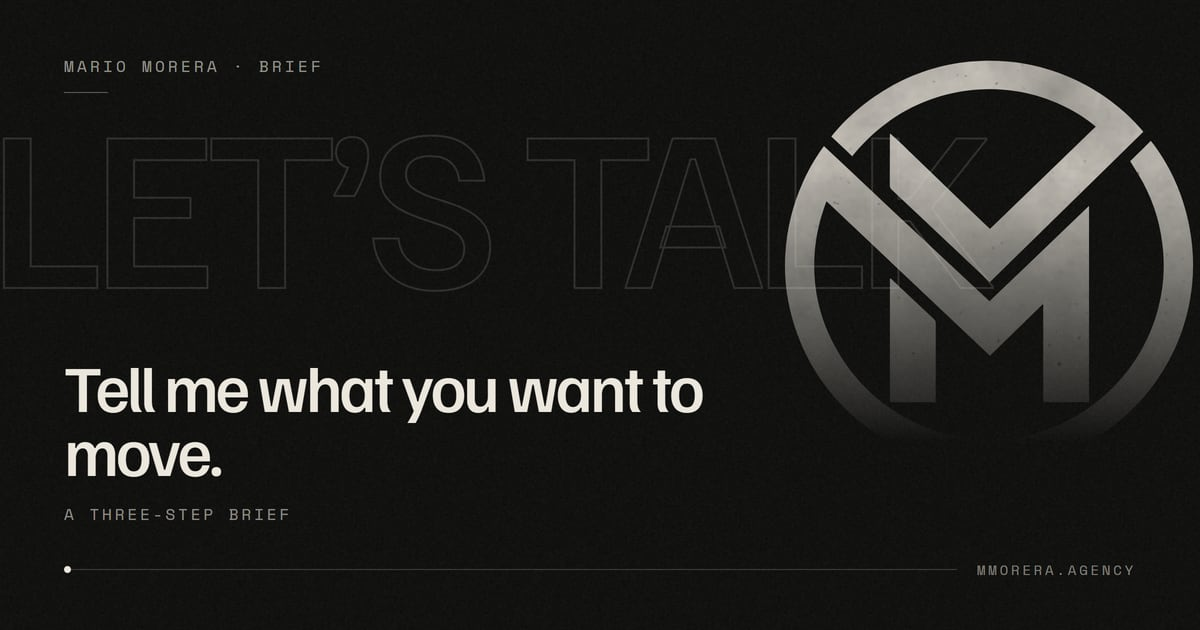
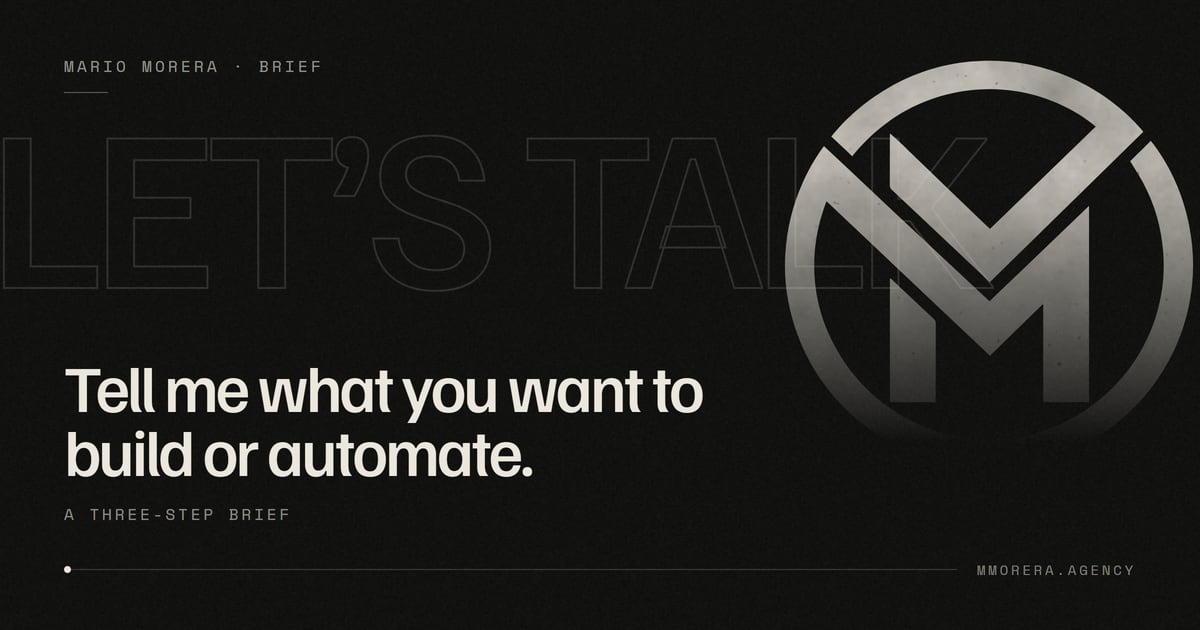
feat(triada): T25, brief de voz y datos en tuteo; Fenix rotula sus herramientas internas
- solutionsData y paginas.ts sin voseo; portada de /aplicar regenerada.
- projectCases: el registro de claims y la base de videos de Fenix se rotulan
  como herramientas de trabajo (T03).
- Brief para Codex en docs/triada/briefs/T25-texto.md; T25 sumada al arranque.

Changed region(s): [[0.0617, 0.6937, 0.4625, 0.754]]

diff --git a/web/src/data/solutionsData.ts b/web/src/data/solutionsData.ts
@@ -126,7 +126,7 @@ export const DECISION_TOPICS: DecisionTopic[] = [
   {
     id: "crm-choice",
     category: t("Sistemas Comerciales", "Commercial Systems"),
-    question: t("¿Necesitás un CRM gigante como HubSpot/GoHighLevel o una herramienta a medida?", "Do you need a heavy CRM like HubSpot/GoHighLevel or a custom-built tool?"),
+    question: t("¿Necesitas un CRM gigante como HubSpot/GoHighLevel o una herramienta a medida?", "Do you need a heavy CRM like HubSpot/GoHighLevel or a custom-built tool?"),
     summary: t(
       "Muchos negocios pagan cientos de dólares al mes en herramientas que su equipo termina abandonando por complejas. La elección correcta depende de tu volumen y cómo vendés.",
       "Many businesses pay hundreds monthly for complex software their teams end up abandoning. The right choice depends on your volume and sales process."
@@ -155,10 +155,10 @@ export const DECISION_TOPICS: DecisionTopic[] = [
           t("Telefonía integrada (VoIP), SMS y email marketing masivo", "Integrated VoIP calling, SMS, and massive email marketing"),
           t("Múltiples pipelines de venta y comisiones por vendedor", "Multiple sales pipelines and rep commission tracking"),
           t("Ecosistema maduro con cientos de integraciones nativas", "Mature ecosystem with hundreds of native integrations"),
-          t("Ideal cuando tenés personal dedicado a operar el CRM", "Ideal when you have dedicated staff to operate the CRM"),
+          t("Ideal cuando tienes personal dedicado a operar el CRM", "Ideal when you have dedicated staff to operate the CRM"),
         ],
         whenToChoose: t(
-          "Cuando tenés un equipo comercial de 4+ personas haciendo llamadas y seguimiento constante.",
+          "Cuando tienes un equipo comercial de 4+ personas haciendo llamadas y seguimiento constante.",
           "When you have a commercial team of 4+ reps actively making outbound calls and follow-ups."
         ),
         recommendedFor: t("Agencias, empresas de seguros, inmobiliarias masivas y B2B de alto volumen.", "Agencies, insurance firms, large real estate teams, and high-volume B2B."),
@@ -227,7 +227,7 @@ export const DECISION_TOPICS: DecisionTopic[] = [
           t("Automatizaciones de seguimiento implacables (evita que se enfríen prospectos)", "Relentless automated nurture flows to keep leads hot"),
           t("Ideal para delegar sub-cuentas a sucursales o clientes con marca blanca", "Sub-account architecture perfect for branches and clients"),
         ],
-        whenToChoose: t("Si vendés servicios, citas, consultas, o si querés sustituir 6 suscripciones distintas (ClickFunnels + Calendly + Mailchimp + Twilio) por una sola.", "If you sell appointments, high-ticket services, or want to replace 6 subscriptions into one consolidated platform."),
+        whenToChoose: t("Si vendes servicios, citas o consultas, o si quieres sustituir 6 suscripciones distintas (ClickFunnels + Calendly + Mailchimp + Twilio) por una sola.", "If you sell appointments, high-ticket services, or want to replace 6 subscriptions into one consolidated platform."),
         recommendedFor: t("Agencias, clínicas estéticas, academias, firmas legales y servicios locales.", "Agencies, aesthetic clinics, academies, legal firms, and local services."),
         badge: t("Recomendado Todo-en-Uno", "Top All-In-One"),
       },
@@ -240,7 +240,7 @@ export const DECISION_TOPICS: DecisionTopic[] = [
           t("A Medida (Supabase + n8n): Propiedad 100% de tus datos con cero costos recurrentes", "Custom (Supabase + n8n): 100% data ownership with zero recurring SaaS fees"),
           t("Integración profunda con stacks de código Next.js y APIs REST", "Deep integration with modern Next.js code stacks and REST APIs"),
         ],
-        whenToChoose: t("HubSpot si tenés un equipo corporativo con presupuesto alto. Pipedrive o A Medida si buscás foco puro en cerrar tratos sin complejidad.", "HubSpot if you have a well-funded enterprise sales team. Pipedrive or Custom if you want zero bloat and high closing velocity."),
+        whenToChoose: t("HubSpot si tienes un equipo corporativo con presupuesto alto. Pipedrive o A Medida si buscas foco puro en cerrar tratos sin complejidad.", "HubSpot if you have a well-funded enterprise sales team. Pipedrive or Custom if you want zero bloat and high closing velocity."),
         recommendedFor: t("Startups B2B, empresas de software, distribuidores mayoristas y operaciones ágiles.", "B2B SaaS, tech startups, wholesale distributors, and lean teams."),
         badge: t("Corporativo & Especializado", "Corporate & Specialized"),
       },

diff --git a/web/src/data/projectCases.ts b/web/src/data/projectCases.ts
@@ -30,10 +30,10 @@ export const PROJECT_CASES: ProjectCase[] = [
       t("Pacientes hispanos: sitio bilingüe y precios claros.", "Hispanic patients: a bilingual site and clear prices."),
     ],
     decisions: [
-      t("Un registro de 109 afirmaciones con redacción permitida y prohibida.", "A registry of 109 claims with permitted and prohibited wording."),
+      t("Un registro interno de 109 afirmaciones con redacción permitida y prohibida (herramienta de trabajo; no se ve en el sitio).", "An internal registry of 109 claims with permitted and prohibited wording (a working tool; not shown on the site)."),
       t("Formulario de 7 campos sin texto libre, con llave fail-closed hacia GoHighLevel.", "A 7-field form with no free text and a fail-closed switch into GoHighLevel."),
       t("Reserva en 3 pasos contra la agenda real del CRM.", "A 3-step booking against the CRM's real calendar."),
-      t("Una base de 1.096 videos médicos públicos para escribir guiones con búsqueda por palabras clave.", "A base of 1,096 public medical videos to write scripts with keyword search."),
+      t("Una base interna de 1.096 videos médicos públicos para escribir guiones con búsqueda por palabras clave (herramienta de trabajo; no se ve en el sitio).", "An internal base of 1,096 public medical videos for writing scripts with keyword search (a working tool; not shown on the site)."),
     ],
     result: t(
       "Un sitio de 40 páginas en dos idiomas, con reserva conectada al CRM y una fábrica de contenido que no promete de más.",

diff --git a/web/src/data/seo/paginas.ts b/web/src/data/seo/paginas.ts
@@ -76,9 +76,9 @@ export const PAGINAS_SEO: Record<PaginaSeo, PaginaSeoData> = {
   },
   hablemos: {
     path: "/aplicar",
-    title: { es: "Contame tu proyecto", en: "Tell me about your project" },
+    title: { es: "Cuéntame tu proyecto", en: "Tell me about your project" },
     description: {
-      es: "Tres pasos para contarme qué querés construir o automatizar. Con ese contexto te respondo con el próximo paso útil para tu proyecto.",
+      es: "Tres pasos para contarme qué quieres construir o automatizar. Con ese contexto te respondo con el próximo paso útil para tu proyecto.",
       en: "Three steps to tell me what you want to build or automate. With that context, I reply with the most useful next step for your project.",
     },
     portada: "hablemos",
@@ -125,7 +125,7 @@ export const PORTADAS_OG: Record<PaginaSeoData["portada"], PortadaOg> = {
   hablemos: {
     eco: { es: "Hablemos", en: "Let’s talk" },
     rotulo: { es: "Mario Morera · Brief", en: "Mario Morera · Brief" },
-    titular: { es: "Contame qué querés mover.", en: "Tell me what you want to move." },
+    titular: { es: "Cuéntame qué quieres construir o automatizar.", en: "Tell me what you want to build or automate." },
     servicios: { es: "Brief en tres pasos", en: "A three-step brief" },
   },
 };

diff --git a/web/docs/triada/briefs/T25-texto.md b/web/docs/triada/briefs/T25-texto.md
@@ -1,0 +1,89 @@
+# T25 · Pasada de texto: voseo, calcos y cifras
+
+**Dueño:** Claude escribe este brief y los datos → **Codex** aplica en los componentes.
+**Voz:** español neutro con tuteo (sin voseo) e inglés claro. Codex copia los textos tal cual, sin reescribirlos.
+
+## Ya hecho por Claude (en `src/data/**`)
+
+| Archivo | Cambio |
+|---|---|
+| `data/solutionsData.ts` | 5 frases con voseo en la comparación de CRM pasan a tuteo |
+| `data/seo/paginas.ts` | `/aplicar`: título «Cuéntame tu proyecto», descripción con «quieres» y portada «Cuéntame qué quieres construir o automatizar.» / «Tell me what you want to build or automate.» |
+| `data/projectCases.ts` | Fenix: el registro de 109 afirmaciones y la base de 1.096 videos se rotulan «herramienta de trabajo; no se ve en el sitio». «40 páginas» **no se cambió**: el film de Fenix valida esa cifra contra `FENIX_FACTS` (dossier). El sitemap verificado en T03 da 22 páginas por idioma; hay que conciliar el dossier, el registro de hechos y el film juntos |
+
+`data/techRadarData.ts` tiene voseo, pero solo lo usa `/radar`, que es una página de desarrollo (`page.dev.tsx`). Queda fuera.
+
+## 1. Voseo en componentes (Codex)
+
+| Archivo:línea | Antes | Después (ES) |
+|---|---|---|
+| `app/aplicar/page.tsx:23` | Contame qué querés mover. | Cuéntame qué quieres construir o automatizar. |
+| `components/premium/CaseStudy.tsx:97` | Verificalo vos mismo | Compruébalo tú mismo |
+| `components/premium/CaseStudy.tsx:254` | ¿Querés algo así para tu negocio? | ¿Quieres algo así para tu negocio? |
+| `components/premium/CaseStudy.tsx:259` | Contame tu proyecto | Cuéntame tu proyecto |
+| `components/premium/WorkExperience.tsx:78` | ¿Qué querés hacer posible? | ¿Qué quieres hacer posible? |
+| `components/premium/WorkReel.tsx:342` | Deslizá → | Desliza → |
+| `components/premium/WorkReel.tsx:367` | Scrolleá ↓ | Desplázate ↓ |
+| `components/premium/UnderTheHood.tsx:19` | …elegí un recorrido o abrí un componente. | …elige un recorrido o abre un componente. |
+| `components/premium/ArchitectureExplorerMount.tsx:48` | Abrí un componente para ver… | Abre un componente para ver… |
+| `components/films/UseCaseFilmRoom.tsx:201` | Tocá un nodo para inspeccionarlo | Toca un nodo para inspeccionarlo |
+| `components/premium/estudio/CapabilitiesOrbit.tsx:41` | …Abrí una para ver qué resuelve… | …Abre una para ver qué resuelve… |
+| `components/premium/estudio/CapabilitiesOrbit.tsx:44` | Tocá un nodo para abrirlo · Esc para cerrar | Toca un nodo para abrirlo · Esc para cerrar |
+| `components/premium/estudio/CapabilityFilmPanel.tsx:22` | Abrí otra familia en la órbita… | Abre otra familia en la órbita… |
+| `components/premium/estudio/InteractiveDesignTokenStudio.tsx:123` | Sintetizá la identidad visual… | Sintetiza la identidad visual… |
+| `components/premium/estudio/InteractiveDesignTokenStudio.tsx:128` | Explorá cómo… Exportá la configuración… | Explora cómo… Exporta la configuración… |
+| `components/premium/estudio/InteractiveDesignTokenStudio.tsx:446` | ¿Querés esta estética «…» en tu propio sistema? | ¿Quieres esta estética «…» en tu propio sistema? |
+| `components/premium/home/OrchestrationWheelSection.tsx:136` y `:194` | Tocá… | Toca… |
+| `components/premium/systems/TechRadarBackstageStudio.tsx:906` | O ingresá un tema libre… | O escribe un tema libre… |
+| `components/portfolio-isolated/AplicarOS.tsx:118-119` | Ingresá tu nombre. / Ingresá un email válido. | Escribe tu nombre. / Escribe un email válido. |
+| `lib/leadValidation.ts:45-50` | Ingresá… / Contame un poco más: usá… / Elegí… | Escribe un nombre de al menos 2 caracteres. / Escribe un email válido. / Cuéntame un poco más: usa al menos 20 caracteres. / Elige el momento actual del proyecto. / Elige cómo está compuesto el equipo. / Elige un momento estimado de inicio. |
+| `actions/submit-lead.ts:111` | …Probá nuevamente o escribime por email. | …Prueba de nuevo o escríbeme por email. |
+| `components/films/scenes/brand/layout/mediaSamples.ts:56` | Elegí el día / Elegí la hora | Elige el día / Elige la hora |
+
+**Listo cuando:** esta búsqueda, fuera de tests, `remotion/`, `social/`, `translations.ts`, `HeroPortfolio` y páginas `*.dev.tsx`, no encuentra nada:
+
+```
+querés|tenés|podés|contame|tocá|abrí|elegí|ingresá|explorá|exportá|sintetizá|scrolleá|deslizá|probá|escribime|vos mismo
+```
+
+## 2. Inglés: calcos y fugas de español (de T12)
+
+| Dónde | Antes | Después (EN) |
+|---|---|---|
+| `app/aplicar/page.tsx` (h1 EN) | Tell me what you want to move. | Tell me what you want to build or automate. |
+| `app/aplicar/page.tsx` (bajada EN) | …and reply with judgment. | …and reply with a clear next step. |
+| `app/layout.tsx` (vínculo para saltar al contenido) | «Saltar al contenido principal» también en `/en` | En `/en`: «Skip to main content». El layout es uno solo: usa el mismo truco del `themeInitScript` o un componente cliente con `usePathname` |
+| `components/premium/SystemsExperience.tsx:57` | `… · CRM / IA / Automatización` fuera del ternario | ES «Sistemas · CRM / IA / Automatización», EN «Systems · CRM / AI / Automation» |
+| `components/premium/estudio/InteractiveDesignTokenStudio.tsx` | Corner Curvature · Inquire on WhatsApp | Corner Radius · Chat on WhatsApp |
+| `components/premium/systems/TechRadarBackstageStudio.tsx` | Mario Morera Thesis · Send to my WhatsApp · Quote this architecture | Mario's take · Send via WhatsApp · Get an estimate for this setup |
+| `components/premium/HomeExperience.tsx` (`copy.en`) | Shall we work together? · Websites & landings · I'll share my CV and availability | Let's work together. · Websites & landing pages · I'll share my resume and availability |
+
+## 3. El `stack` de los casos en dos idiomas
+
+Hoy `stack` es `string[]` y en `/en` se ven 4 etiquetas en español. **Propuesta:** el tipo pasa a `(string | LocalizedText)[]`, y los componentes que lo pintan muestran `typeof item === "string" ? item : item[language]`. Codex cambia el tipo en `src/types/**` y en los componentes que lo pintan; Claude cambia estos valores en `projectCases.ts` cuando el tipo esté listo:
+
+| Caso | ES | EN |
+|---|---|---|
+| mr-studio-tattoo | Reserva por pasos · Consentimiento digital | Multi-step booking · Digital consent |
+| truckers-choice | Cotización por pasos | Multi-step quoting |
+| america-tramites | Validación en cliente | Client-side validation |
+| doge-sm | Catálogo de tienda | Store catalog |
+| new-brothers-barberia | IA | AI |
+
+## 4. Cifras que no ayudan a entender
+
+| Dónde | Hoy | Qué hacer |
+|---|---|---|
+| `SystemsExperience.tsx`, telemetría | «24/7», «<5 min» y los demás números, que cuentan desde «00» con `TickerNumber` | Quitar los números animados. Quedan los 4 rótulos como texto: «Estados visibles del flujo», «Diseñado para operar sin pausa», «Objetivo de primera respuesta» e «Historia única del prospecto». Sin contador |
+| `systems/OmnichannelInboxSimulator.tsx` | Montos («$2800 USD»), «Intención 96 %» y «Oportunidad … estimados», aunque están rotulados como ejemplo | Dejar de mostrar el monto y la intención. El rótulo «Datos de ejemplo» se queda. Los datos en `omnichannelInboxData.ts` se borran en una pasada posterior de Claude |
+
+## Archivos permitidos (Codex)
+
+Los de las tablas 1, 2 y 4, más el tipo de `stack` en `src/types/**` y los componentes que pintan `stack`. Con T22 y T24 en curso, **no tocar** `IslandBar.tsx`, `TechParticleField.tsx` ni la estructura de `HomeExperience.tsx`: en `HomeExperience.tsx`, solo los textos de `copy.en`.
+
+## Listo cuando
+
+- La búsqueda de voseo da vacío (sección 1).
+- `/en` no muestra español en el vínculo para saltar al contenido, en el eyebrow de `/sistemas` ni en las etiquetas de `stack`.
+- La telemetría de `/sistemas` ya no cuenta números y la demo no muestra montos.
+- `npm test`, lint y build en verde, ES y EN a 390 px.

diff --git a/web/docs/triada/TABLERO.md b/web/docs/triada/TABLERO.md
@@ -77,7 +77,7 @@ Calidad común: ES y EN, 390 px sin desborde, teclado, `prefers-reduced-motion` 
 | **T22** | **Sacar del home la órbita y el riel de films.** El riel pasa a `/casos-de-exito` | **Codex** | — | `HomeExperience.tsx` (dejar de montar `OrchestrationWheelSection` y `FilmRail`), `WorkExperience.tsx` (montar `FilmRail`), `IslandBar.tsx` (D9: queda un solo botón «Hablemos», que aparece después del héroe y lleva a `#contacto`) | El home no monta ni la órbita ni el riel, y `/casos-de-exito` muestra el riel. La órbita no se borra: queda para T06. El home mide 9.000 px o menos en escritorio, junto con T21 | T19, D4 | pendiente · **Codex, ahora** |
 | **T23** | **Caminos claros:** menú por necesidad, «Ver CV» en el héroe, una sola entrada a WhatsApp, la barra flotante según D9 y el pie al día | **Codex** | Claude, textos (T20) | `sections/navbar.tsx`, `layout/IslandBar.tsx`, `shared/WhatsAppFab.tsx`, `sections/footer.tsx`, `HomeExperience.tsx` (solo los botones del héroe) | El menú es «Servicios ▾ · Casos · Sobre mí · CV · Hablemos» y funciona con teclado. Hay 2 enlaces a WhatsApp en el home como máximo. «Ver CV» lleva a `/cv`; mientras T06 no exista, va al camino «puesto». El pie usa las mismas etiquetas que el menú | T19, T20, D9, D10 | bloqueada (T20) |
 | **T24** | **Partículas sin desfile de logos:** en reposo, campo quieto o monograma; al enfocar un chip, el glifo del servicio | **Codex** | Claude decide los glifos | `shared/TechParticleField.tsx`, `lib/particleSequence.ts`. Si hace falta tocar `src/data/particleSceneConfig.ts`, lo pide en la entrega (es de Claude) | Detrás del título no desfila ningún logo de herramienta y los chips siguen dibujando su glifo. El teléfono rinde igual o mejor, medido según la memoria de ruido de Lighthouse | T19, D8 | pendiente · **Codex, ahora** |
-| **T25** | **Pasada de texto en todo el sitio:** cifras sin fuente, voseo y calcos. Aplica T12 | **Claude** escribe; **Codex** aplica en los componentes | Gemini revisa | Claude: `docs/triada/briefs/T25-texto.md`, `src/data/omnichannelInboxData.ts`, `src/data/designTokenData.ts`, `src/data/projectCases.ts` (`stack` bilingüe). Codex: `SystemsExperience.tsx` (telemetría), `systems/OmnichannelInboxSimulator.tsx`, `estudio/InteractiveDesignTokenStudio.tsx`, `estudio/CapabilitiesOrbit.tsx`, `StudioExperience.tsx`, `WorkExperience.tsx`, `CaseStudy.tsx`, `app/aplicar/page.tsx` y su par `en`, `AplicarOS.tsx` (solo textos), `app/layout.tsx` (vínculo para saltar al contenido) | Después de T19, un `grep` no encuentra «24/7», «<5 min», «18s», «40%», «99 PageSpeed» ni «12.4x» sin el rótulo «Ejemplo». La demo de `/sistemas` deja de mostrar montos e «Intención». No quedan formas de voseo (querés, tocá, contame, scrolleá, ingresá, explorá…) fuera de las citas históricas. Se resuelve la lista de T12 | T12 ✓, T19 | en curso (Claude escribe el brief) |
+| **T25** | **Pasada de texto en todo el sitio:** cifras sin fuente, voseo y calcos. Aplica T12 | **Claude** escribe; **Codex** aplica en los componentes | Gemini revisa | Claude: `docs/triada/briefs/T25-texto.md`, `src/data/omnichannelInboxData.ts`, `src/data/designTokenData.ts`, `src/data/projectCases.ts` (`stack` bilingüe). Codex: `SystemsExperience.tsx` (telemetría), `systems/OmnichannelInboxSimulator.tsx`, `estudio/InteractiveDesignTokenStudio.tsx`, `estudio/CapabilitiesOrbit.tsx`, `StudioExperience.tsx`, `WorkExperience.tsx`, `CaseStudy.tsx`, `app/aplicar/page.tsx` y su par `en`, `AplicarOS.tsx` (solo textos), `app/layout.tsx` (vínculo para saltar al contenido) | Después de T19, un `grep` no encuentra «24/7», «<5 min», «18s», «40%», «99 PageSpeed» ni «12.4x» sin el rótulo «Ejemplo». La demo de `/sistemas` deja de mostrar montos e «Intención». No quedan formas de voseo (querés, tocá, contame, scrolleá, ingresá, explorá…) fuera de las citas históricas. Se resuelve la lista de T12 | T12 ✓, T19 | pendiente · Codex · brief listo en [briefs/T25-texto.md](briefs/T25-texto.md); los datos de Claude ya están |
 
 ## Fase B · Revelar de a poco
 
@@ -105,7 +105,7 @@ Calidad común: ES y EN, 390 px sin desborde, teclado, `prefers-reduced-motion` 
 
 ## Para arrancar ya (1/11, después de T19)
 
-- **Codex:** T22 (órbita y riel fuera del home), T24 (partículas sin desfile de logos) y T13 (deuda técnica). Arranque: [codex/ARRANQUE-2.md](codex/ARRANQUE-2.md).
+- **Codex:** T22 (órbita y riel fuera del home), T24 (partículas sin desfile de logos), T13 (deuda técnica) y T25 (pasada de texto). Arranque: [codex/ARRANQUE-2.md](codex/ARRANQUE-2.md).
 - **Gemini:** T28 (rutas «Pruébalo»), T34 (prueba de 5 segundos, antes de la Fase A) y crítica de la preview. Arranque: [gemini/ARRANQUE-2.md](gemini/ARRANQUE-2.md).
-- **Claude:** T20 (brief del recorrido), T25 (brief de voz y cifras) y los ajustes de `projectCases.ts` que salen de T03.
+- **Claude:** T20 (brief del recorrido). Hecho: brief de T25 y los ajustes de `projectCases.ts` que salen de T03.
 - **Mario:** D13 (foto, desbloquea T21), D2 y D6 (T07 y T32), D11 (T33), D3, D5 y D12. Conseguir 3 o 4 personas para T34.

diff --git a/web/docs/triada/codex/ARRANQUE-2.md b/web/docs/triada/codex/ARRANQUE-2.md
@@ -4,7 +4,7 @@ Pegar en Codex **después** del prompt fijo `web/docs/triada/PROMPT-codex.md`, c
 
 ---
 
-Mario aprobó el plan de experiencia (`web/docs/triada/PLAN-experiencia.md`). Ese plan baja el home de unos 14.700 px a unos 8.500, quitando lo que repite. Tienes 3 tarjetas, en este orden. Están en `web/docs/triada/TABLERO.md`.
+Mario aprobó el plan de experiencia (`web/docs/triada/PLAN-experiencia.md`). Ese plan baja el home de unos 14.700 px a unos 8.500, quitando lo que repite. Tienes 4 tarjetas, en este orden. Están en `web/docs/triada/TABLERO.md`.
 
 **Antes de empezar:**
 - **Partir siempre de `triada/web`** (su punta actual). Desde T19 contiene lo que está en producción: marca «pared», SEO por página y rótulos «Ejemplo». La rama está solo en local, así que trabajas sobre este mismo repo, cada tarea en su worktree:
@@ -58,6 +58,12 @@ Mario aprobó el plan de experiencia (`web/docs/triada/PLAN-experiencia.md`). Es
   - si el problema es del test o de la app, arréglalo sin cambiar textos;
   - si hace falta decidir algo, explícalo en la entrega.
 - **No toques** los archivos de T22 y T24 (`HomeExperience.tsx`, `WorkExperience.tsx`, `IslandBar.tsx`, `TechParticleField.tsx` y `particleSequence.ts`). Si tienen avisos, anótalos en la entrega.
+
+## 4. T25 · Pasada de texto: voseo, calcos y cifras
+
+- Brief con los textos exactos y los archivos: `web/docs/triada/briefs/T25-texto.md`. Copia los textos tal cual.
+- Incluye cambiar el tipo de `stack` a `(string | LocalizedText)[]`. Cuando el tipo esté listo, avisa en la entrega: Claude carga los valores en inglés.
+- Arranca después de T13, desde la punta de `triada/web`, para no chocar con T22 y T24.
 
 ## Al terminar cada tarjeta
 
